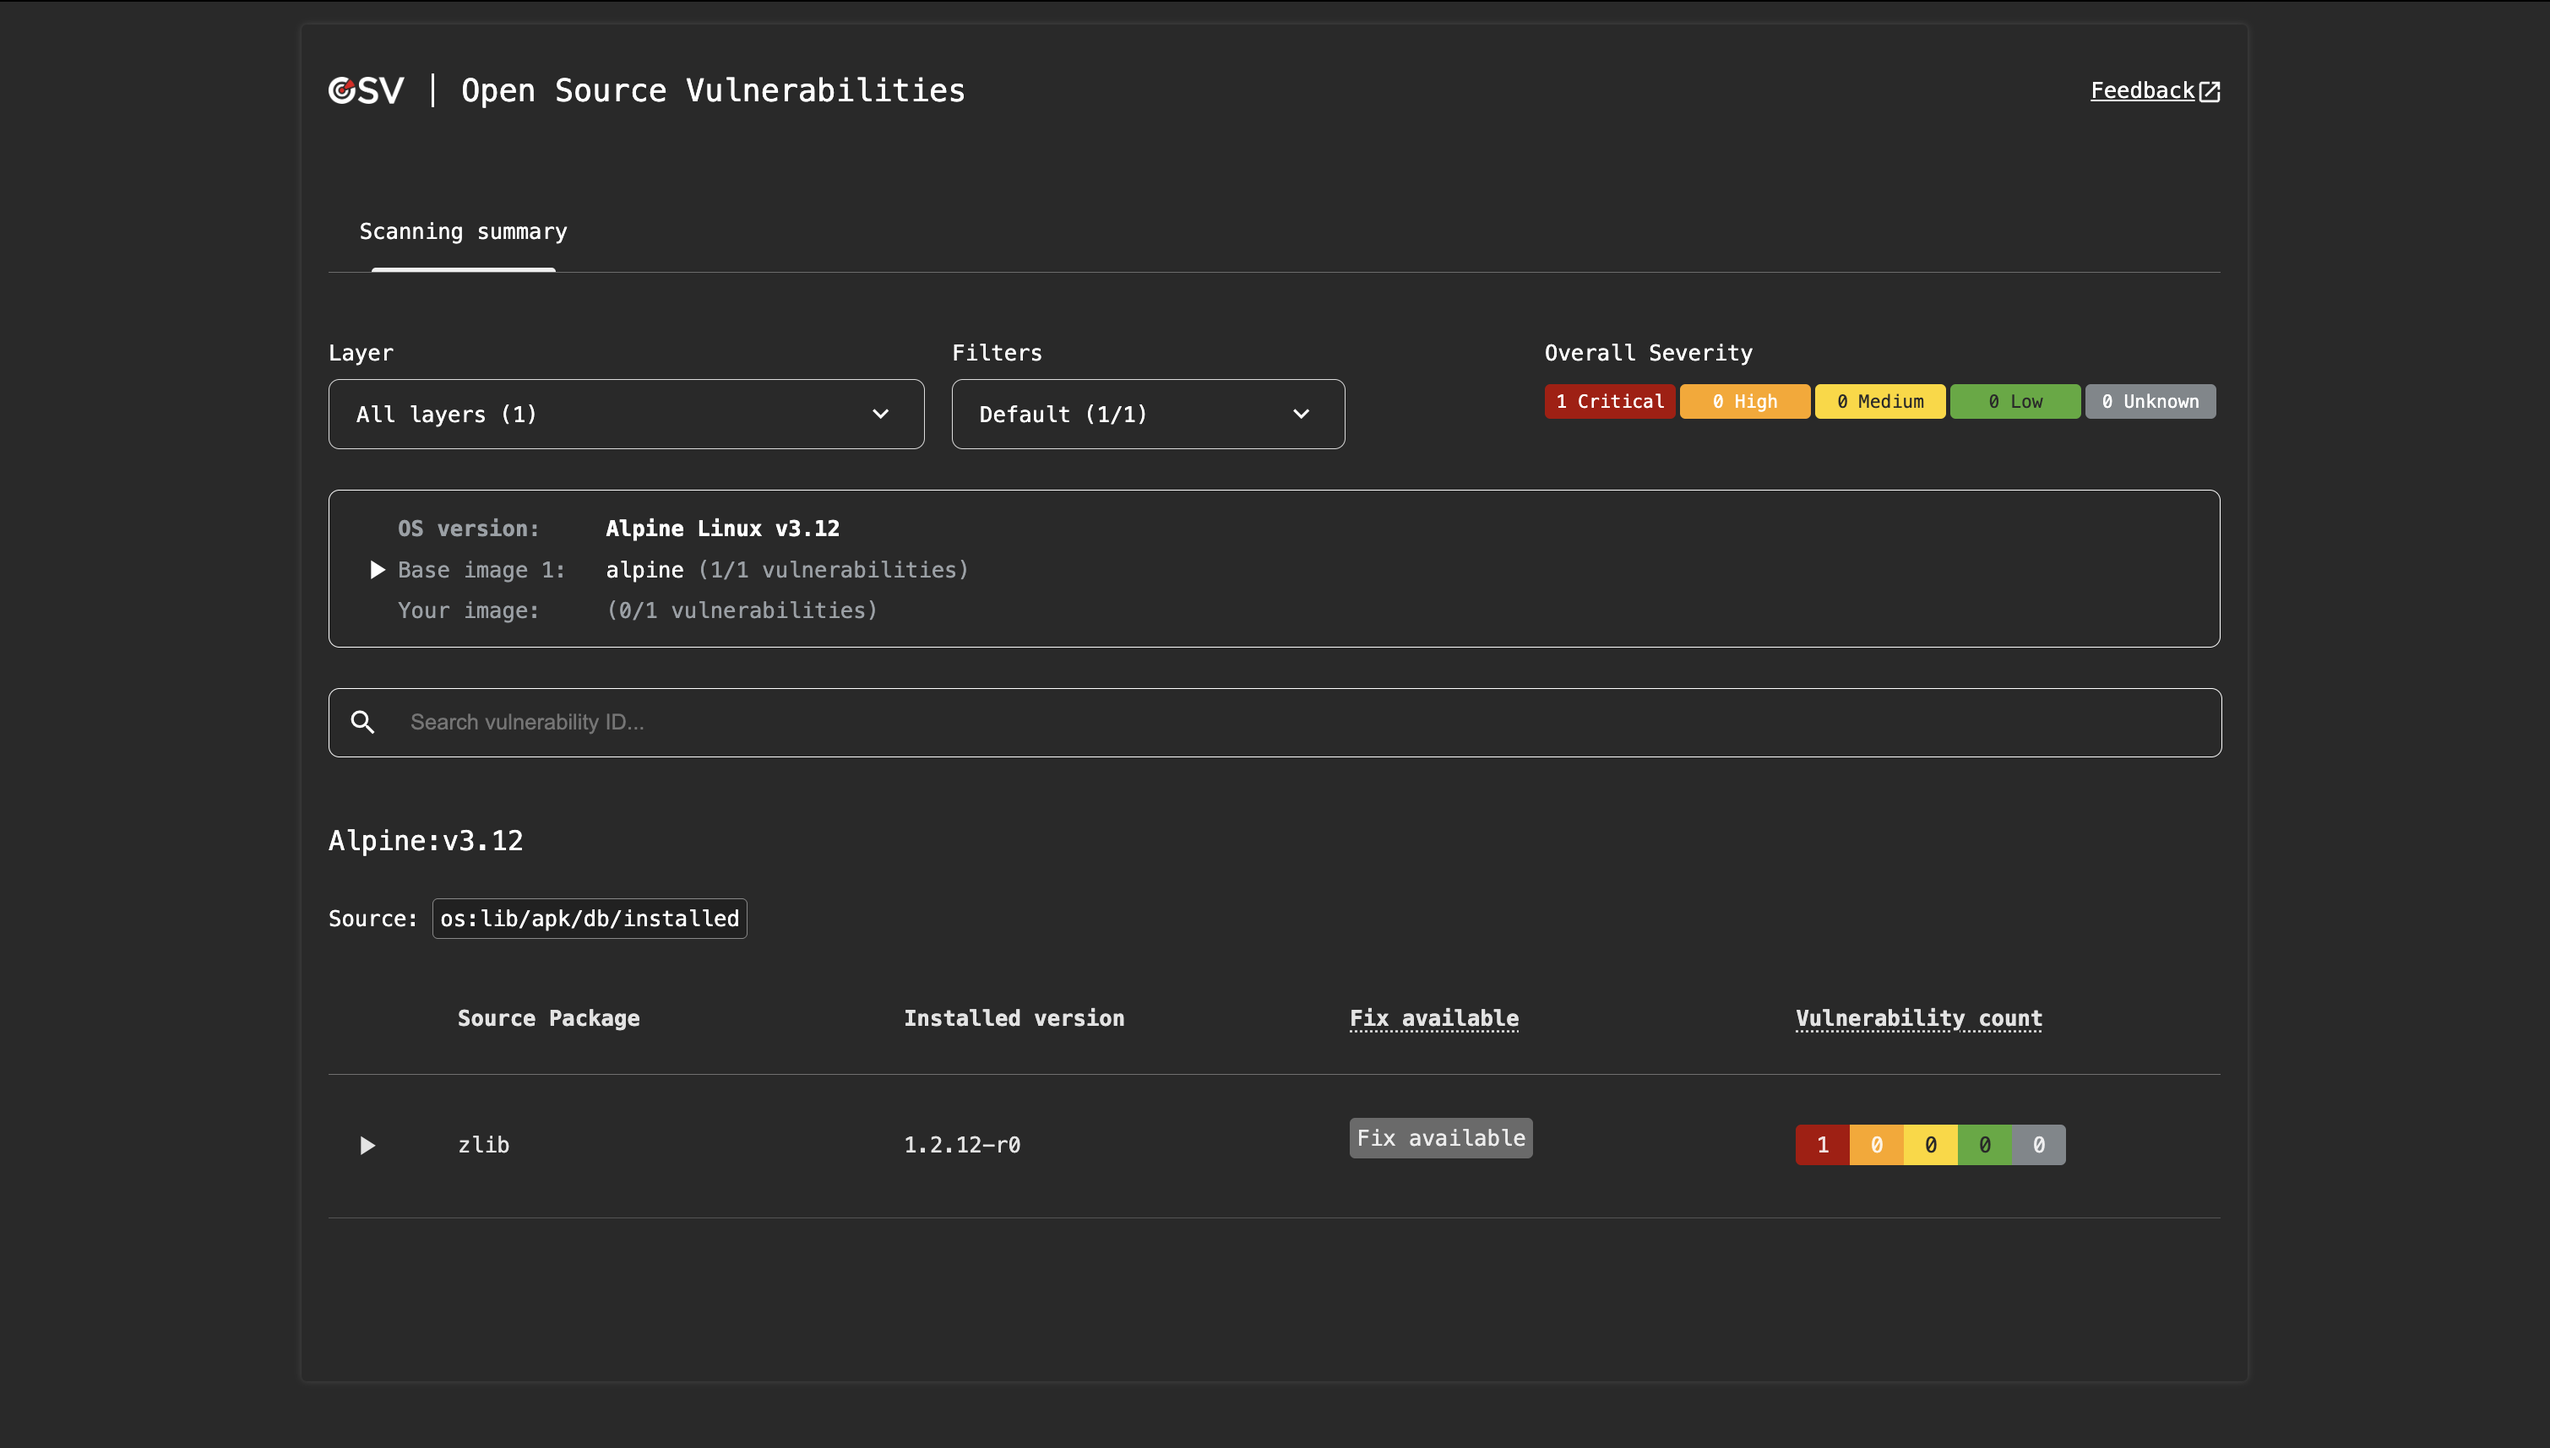
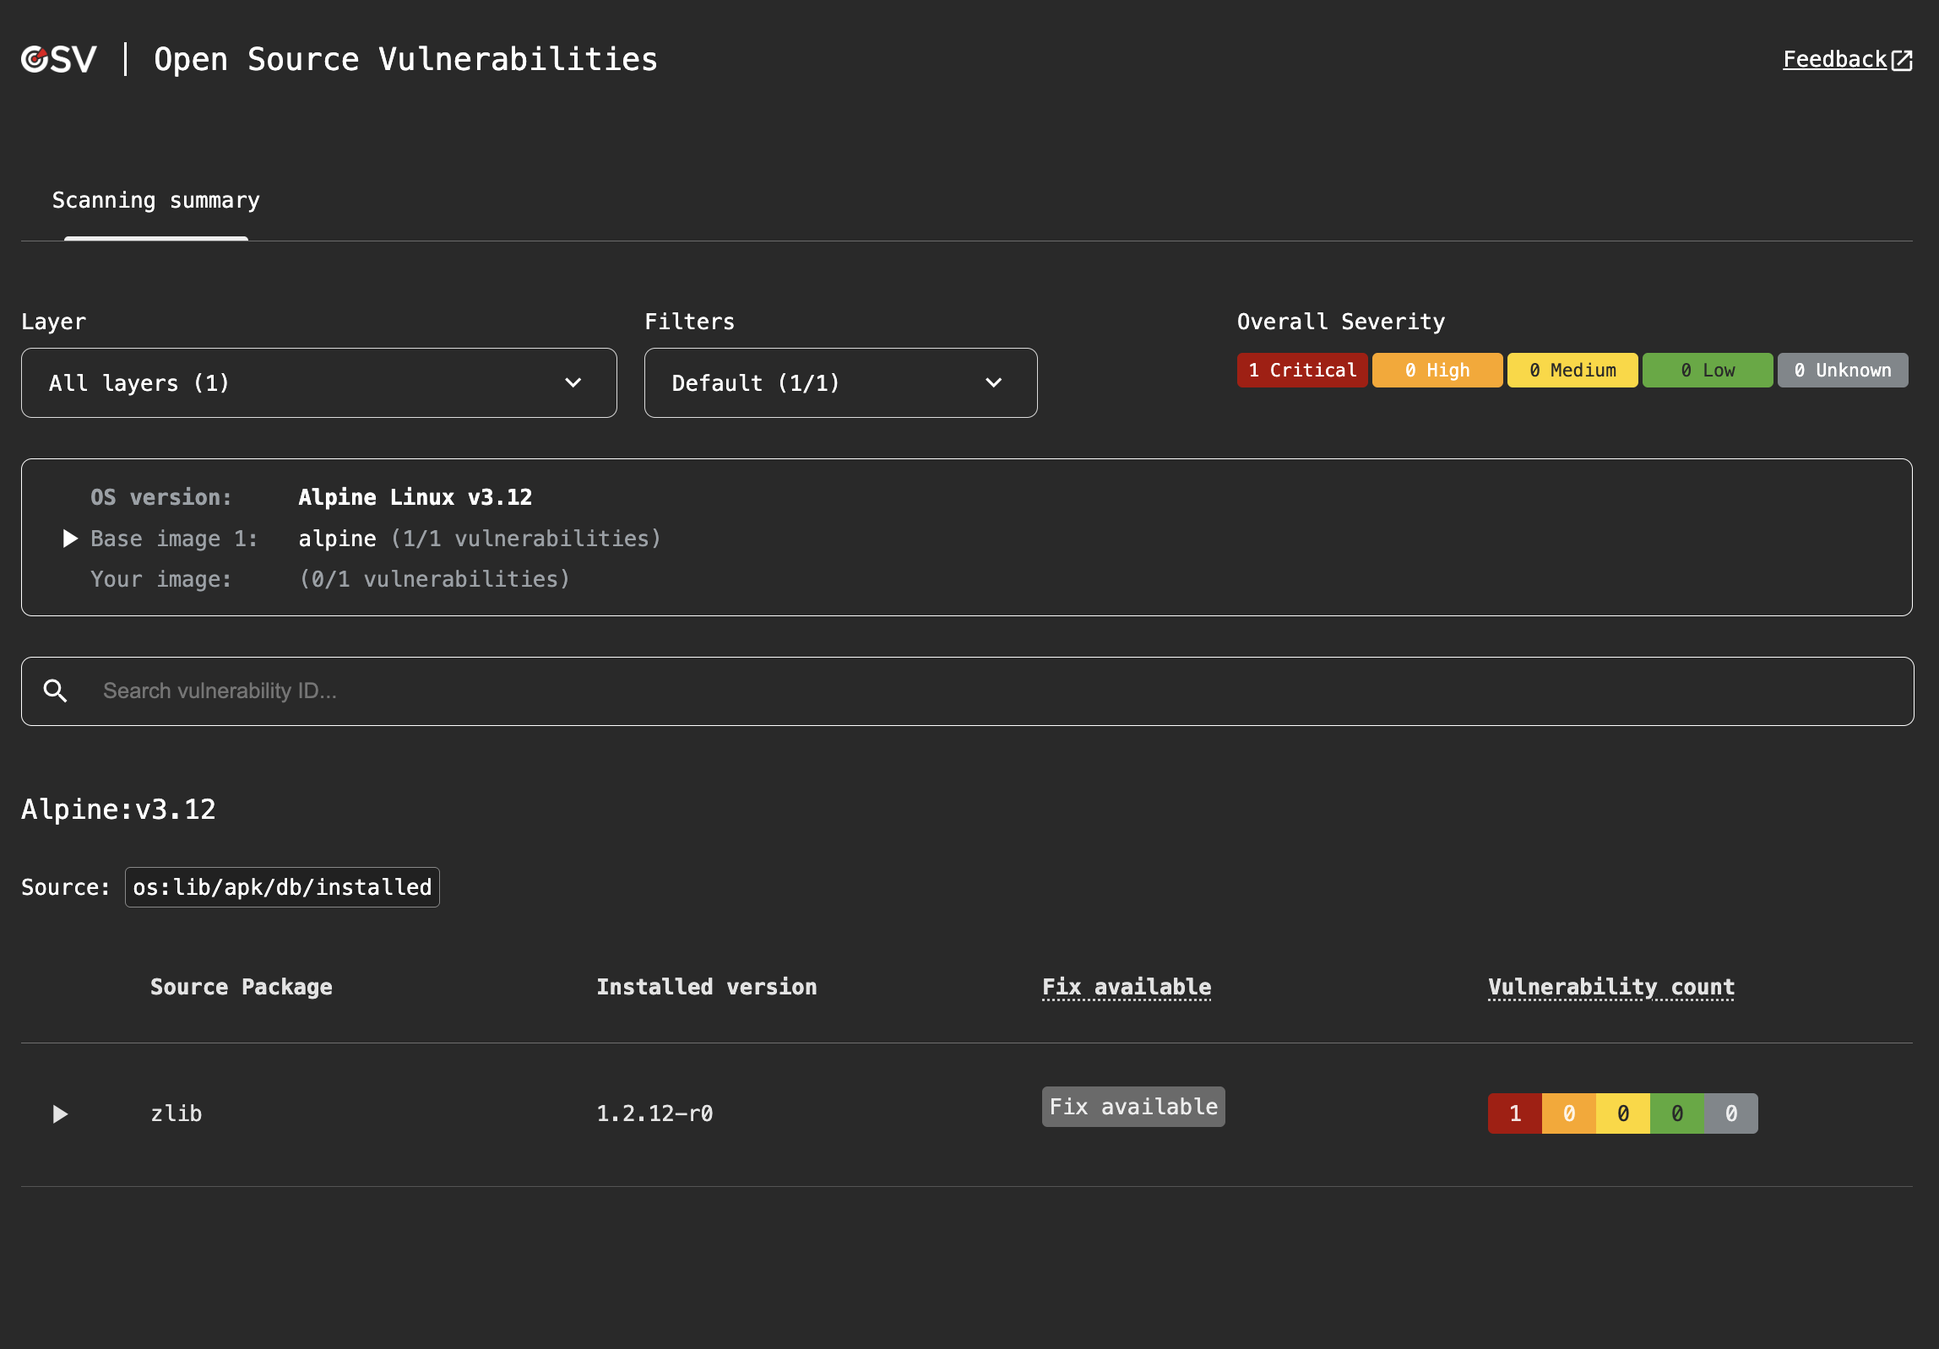
fix: align container scan screenshot markup with GitHub Workflows section to remove unwanted border

diff --git a/gcp/website/frontend3/src/templates/home.html b/gcp/website/frontend3/src/templates/home.html
@@ -257,7 +257,8 @@ osv-scanner fix -M path/to/package.json -L path/to/package-lock.json
     <div id="use-container-scanning" class="mdc-layout-grid__cell--span-12 usage-examples">
       <h2 class="heading">Container Image Scanning</h2>
       <p class="description">
-        You can use <a href="https://github.com/google/osv-scanner" target="_blank" rel="noopener">OSV-Scanner</a>
+        You can use
+        <a href="https://github.com/google/osv-scanner" target="_blank" rel="noopener">OSV-Scanner</a>
         to scan your container images for known vulnerabilities.
       </p>
     
@@ -266,7 +267,9 @@ osv-scanner fix -M path/to/package.json -L path/to/package-lock.json
         <div class="mobile-spacer mdc-layout-grid__cell--span-3"></div>
         <div class="code-card mdc-layout-grid__cell--span-6 mdc-layout-grid__cell--span-12-tablet">
           <h3 class="code-card-title">Scan container image</h3>
-          <pre class="code-card-content" id="example-container-scan-serve">osv-scanner scan image --serve alpine:3.12</pre>
+          <pre class="code-card-content" id="example-container-scan-serve">
+    osv-scanner scan image --serve alpine:3.12
+          </pre>
           <clipboard-copy class="code-card-copy" for="example-container-scan-serve">
             <md-icon-button class="icon"><md-icon>content_copy</md-icon></md-icon-button>
           </clipboard-copy>
@@ -275,16 +278,43 @@ osv-scanner fix -M path/to/package.json -L path/to/package-lock.json
       </div>
     
       <!-- Big screenshot (same size/markup as GitHub Workflows) -->
-      <div class="mdc-layout-grid__inner" style="margin-top: 16px;">
-        <div class="mdc-layout-grid__cell--span-12">
-          <div class="container-scan-image">
-            <img
-              src="/static/img/container-scan-html.png"
-              alt="Screenshot of container scan HTML output"
-              loading="lazy">
-          </div>
-        </div>
-      </div>
-    </div>
+<div class="image-container" style="margin-top: 16px;">
+  <img
+    src="/static/img/container-scan-html.png"
+    alt="Screenshot of container scan HTML output"
+    loading="lazy"
+    style="
+      max-width: 1000px;
+      width: 100%;
+      height: auto;
+      display: block;
+      margin: 0 auto;
+      border: none;
+      /* crop 2px from the TOP only */
+      clip-path: inset(2px 0 0 0);
+    "
+  >
+</div>
+
+
     
-    <div id="use-the-github-workflows" class="mdc-layout-grid__cell--span-12 github-action"> <h2 class="heading">GitHub Workflows</h2> <p class="description"> OSV-Scanner also provides reusable GitHub workflows that can be easily integrated into CI/CD pipelines to provide continuous vulnerability scanning coverage. This can scan newly added dependencies in pull requests for introduced vulnerabilities, as well as perform regular vulnerability scans for the entire project.</p> <div class="image-container"> <img src="/static/img/github-action-scan-output.webp" alt="Screenshot of OSV-Scanner GitHub Action" loading="lazy"> </div> <div class="cta"> <a class="cta-primary link-button" href="https://google.github.io/osv-scanner/github-action/" aria-label="Learn more about osv scanner github action">Learn more</a> </div> </div> <div class="mdc-layout-grid__cell--span-12 open-source-banner"> <h2 class="heading">Open source</h2> <p class="description"> This project is <a href="https://github.com/google/osv">open source</a>. If you have any ideas or questions, please feel free to reach out by <a href="https://github.com/google/osv/issues/new/choose">creating an issue</a>! </p> <div class="cta"> <a class="cta-primary link-button" href="https://google.github.io/osv.dev/faq/" aria-label="Learn more on our FAQ">Learn more</a> </div> </div> </div> <footer></footer> </div> {% endblock %}
+  <div id="use-the-github-workflows" 
+    class="mdc-layout-grid__cell--span-12 github-action"> 
+    <h2 class="heading">GitHub Workflows</h2>
+    <p class="description"> OSV-Scanner also provides reusable GitHub workflows that can be easily integrated into CI/CD pipelines to provide continuous vulnerability scanning coverage. This can scan newly added dependencies in pull requests for introduced vulnerabilities, as well as perform regular vulnerability scans for the entire project.</p> 
+    <div class="image-container"> <img src="/static/img/github-action-scan-output.webp" alt="Screenshot of OSV-Scanner GitHub Action" loading="lazy"> </div> 
+    <div class="cta"> <a class="cta-primary link-button" href="https://google.github.io/osv-scanner/github-action/" aria-label="Learn more about osv scanner github action">Learn more</a> </div> 
+  </div> 
+  
+  <div class="mdc-layout-grid__cell--span-12 open-source-banner"> 
+  <h2 class="heading">Open source</h2> 
+  <p class="description"> This project is <a href="https://github.com/google/osv">open source</a>. If you have any ideas or questions, please feel free to reach out by <a href="https://github.com/google/osv/issues/new/choose">creating an issue</a>! </p> 
+  
+  <div class="cta">
+  <a class="cta-primary link-button" href="https://google.github.io/osv.dev/faq/" aria-label="Learn more on our FAQ">Learn more</a>
+ </div> 
+ </div> 
+</div> 
+<footer>
+</footer> 
+</div> {% endblock %}
